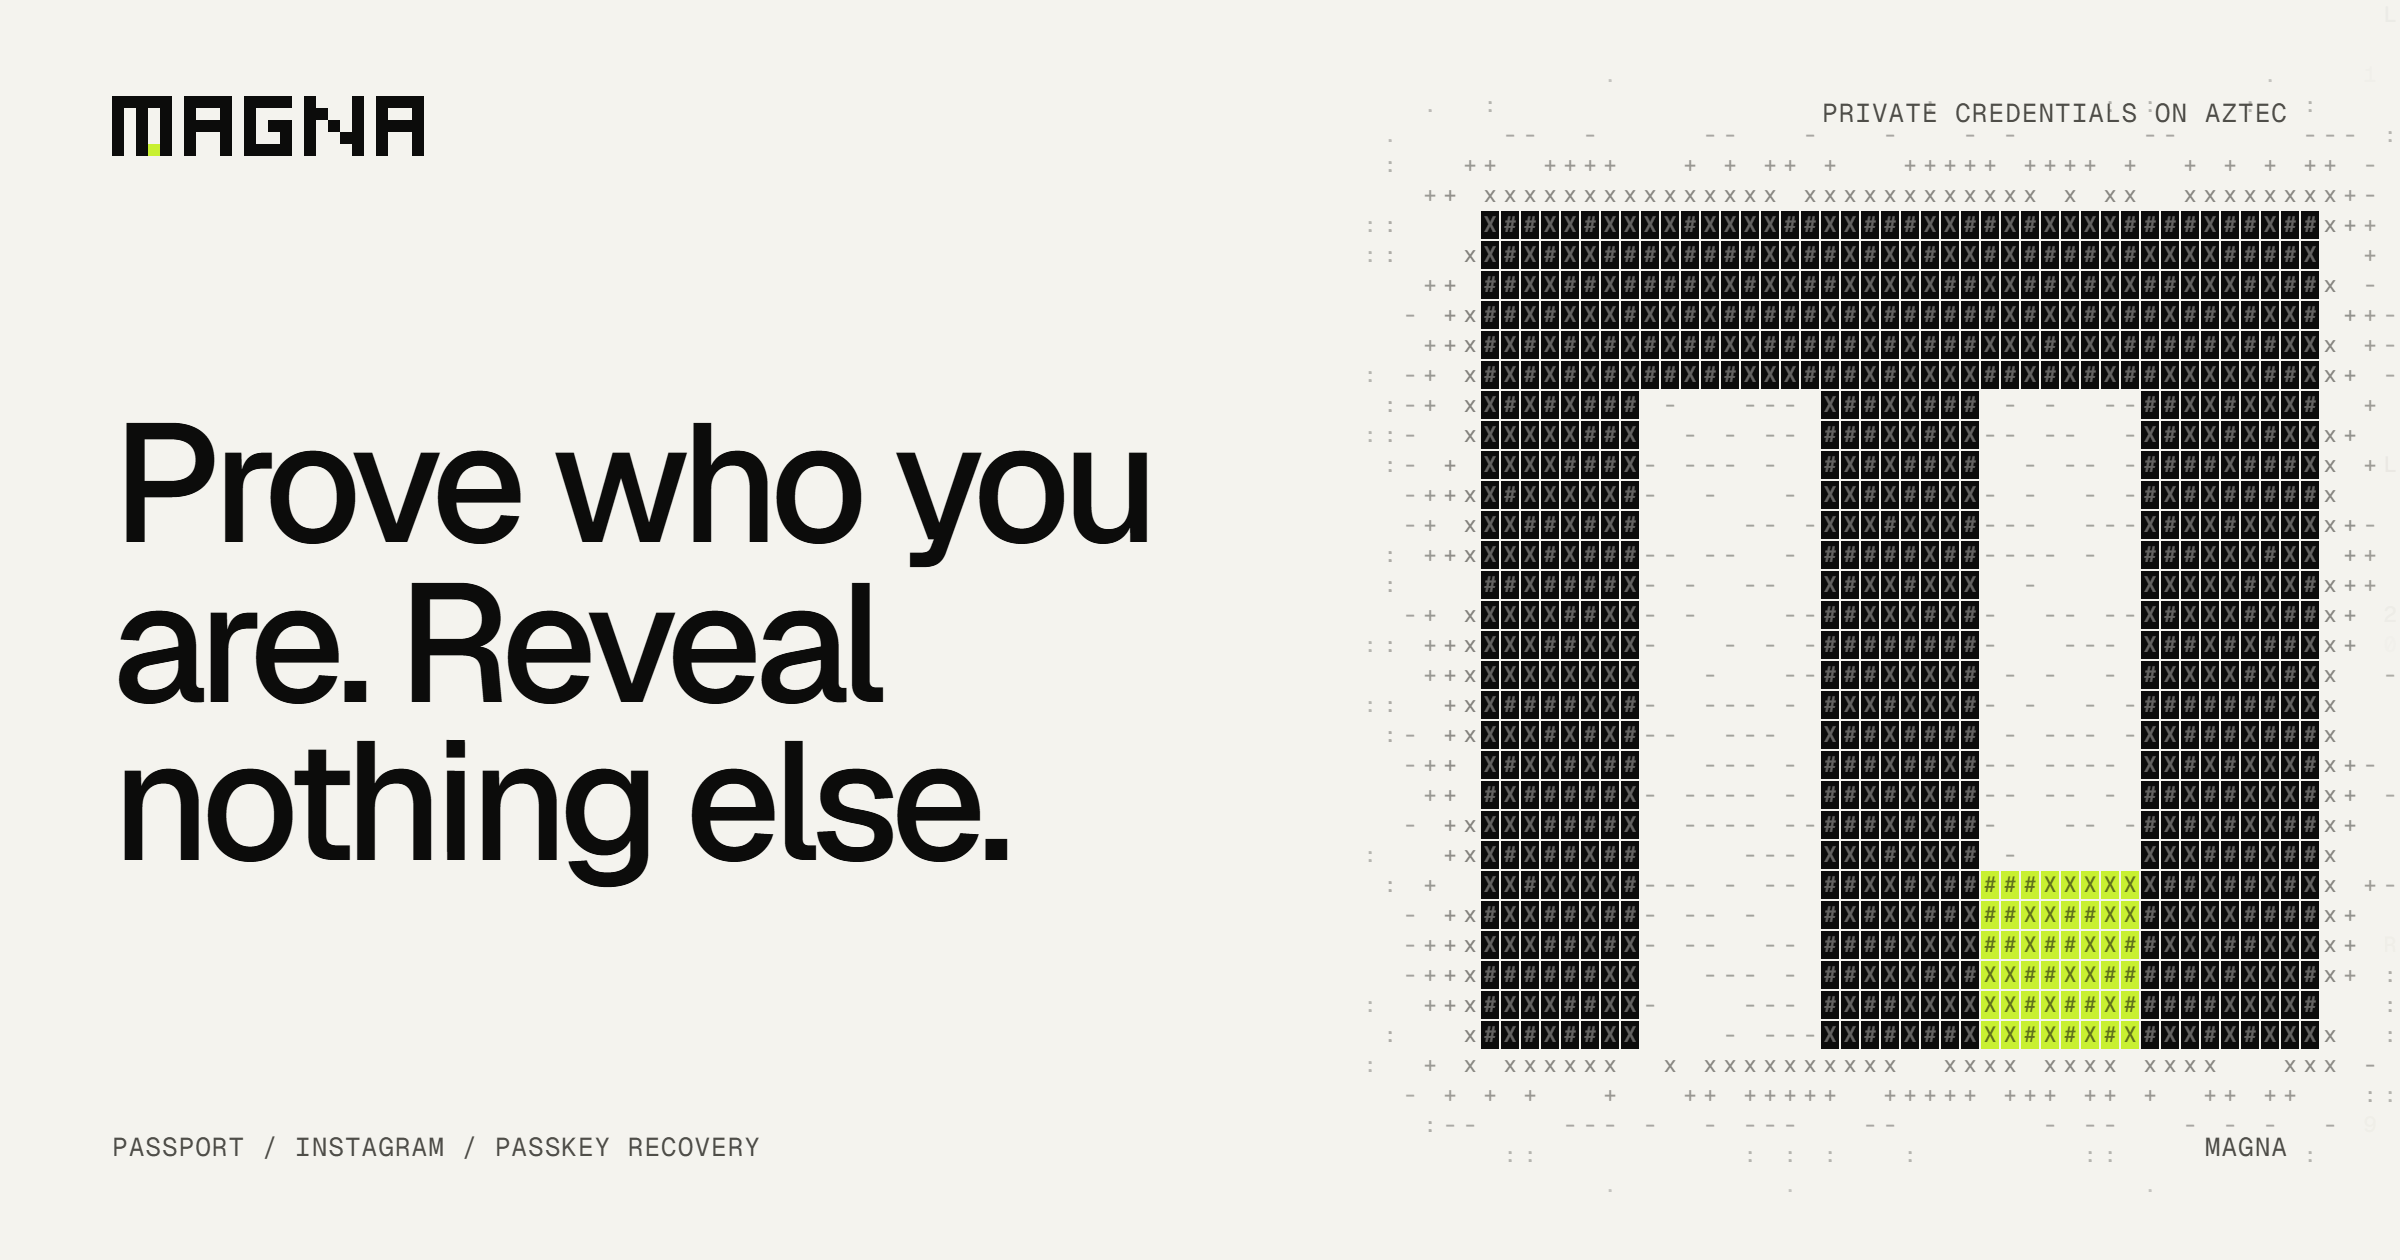
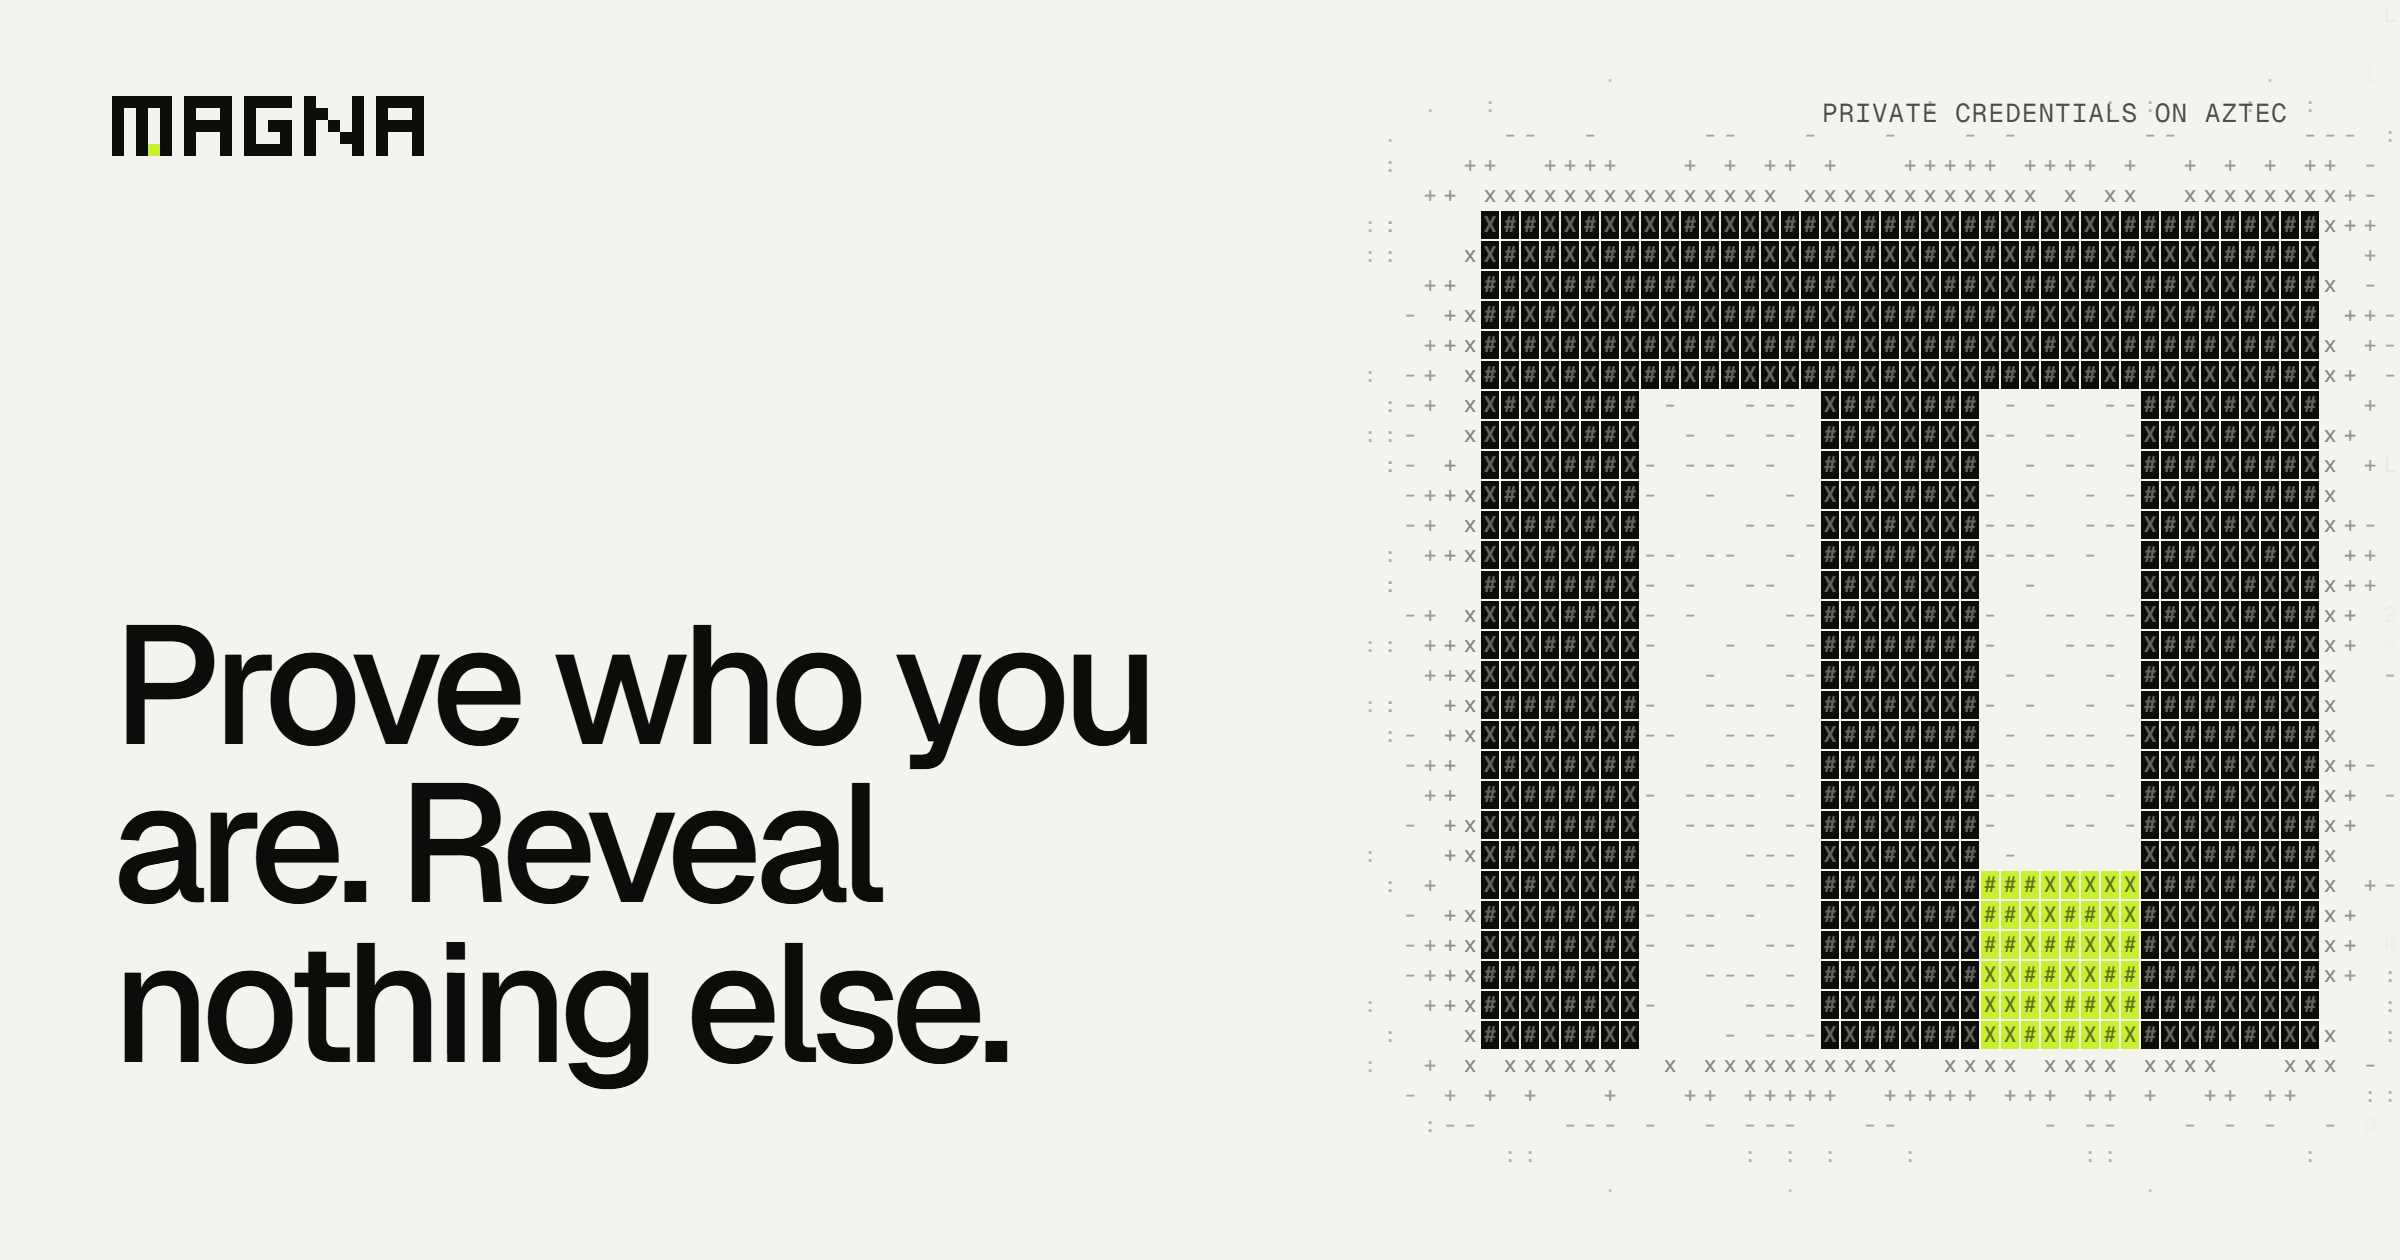
fix: drop slash meta labels from brand kit

diff --git a/brand/source/kit-type.html b/brand/source/kit-type.html
@@ -15,12 +15,12 @@
 <body>
   <div class="canvas sheet">
     <div class="sheet-head">
-      <span class="label">Brand kit / 03 Type</span>
+      <span class="label">03 Type</span>
       <img src="../logo/wordmark.svg" style="height:26px" alt="">
     </div>
     <div class="cols">
       <div class="col corners">
-        <span class="c tl">Geist / Display and text</span><span class="c tr">500 / 400</span>
+        <span class="c tl">Geist</span><span class="c tr">Display</span>
         <div class="display">Reveal<br>nothing<br>else.</div>
         <div>
           <div class="scale">
@@ -31,12 +31,12 @@
         </div>
       </div>
       <div class="col corners">
-        <span class="c tl">Geist Mono / System</span><span class="c tr">400</span>
+        <span class="c tl">Geist Mono</span><span class="c tr">400</span>
         <div class="mono-big">0x2f9c..e41a<br>BLOCK 18,204<br>AGE &gt;= 18<br>NAT TUR<br>NULLIFIER 0x77..01<br>FEE 0.0042 FJ</div>
         <p class="spec">Labels in caps at 12 to 13 px, tracking +4%.<br>Addresses, hashes, block numbers and every value a machine produced. Tabular figures.</p>
       </div>
       <div class="col corners">
-        <span class="c tl">Geist Pixel / Signal</span><span class="c tr">Square</span>
+        <span class="c tl">Geist Pixel</span><span class="c tr">Square</span>
         <div class="pixel-big">01<br>YES</div>
         <p class="spec">Step numbers, large counters and verified answers only. Built from the same square cell as the mark. Never for sentences.</p>
       </div>

diff --git a/brand/source/kit-system.html b/brand/source/kit-system.html
@@ -25,12 +25,12 @@
 <body>
   <div class="canvas sheet">
     <div class="sheet-head">
-      <span class="label">Brand kit / 04 System</span>
+      <span class="label">04 System</span>
       <img src="../logo/wordmark.svg" style="height:26px" alt="">
     </div>
     <div class="grid">
       <div class="field corners" id="field">
-        <span class="c tl">Seal field</span><span class="c tr">ASCII / canvas</span>
+        <span class="c tl">Seal field</span><span class="c tr">Canvas</span>
         <span class="c bl">Document data in</span><span class="c br">One seal out</span>
       </div>
       <div class="panel corners">
@@ -50,7 +50,7 @@
       <div class="panel corners">
         <span class="c tl">Motion</span><span class="c tr">GSAP + Lenis</span>
         <div class="motion">
-          <div><span>Ease</span><b>expo.out / cubic-bezier(.16,1,.3,1)</b></div>
+          <div><span>Ease</span><b>expo.out</b></div>
           <div><span>Scroll</span><b>Lenis lerp 0.09, ScrollTrigger scrub</b></div>
           <div><span>Reveal</span><b>mask lines, 0.9 s, 0.06 s stagger</b></div>
           <div><span>Proof</span><b>the field resolves, never fades in</b></div>

diff --git a/brand/source/og.html b/brand/source/og.html
@@ -3,6 +3,7 @@
 <html><head><meta charset="utf-8"><link rel="stylesheet" href="base.css">
 <style>
   .canvas { width: 1200px; height: 630px; padding: 48px 56px; display: flex; flex-direction: column; justify-content: space-between; }
+  h1 { margin-bottom: 40px; }
   #field { position: absolute; inset: 0; }
   .top, .bottom { position: relative; z-index: 2; display: flex; justify-content: space-between; align-items: flex-start; }
   h1 { position: relative; z-index: 2; font-size: 84px; font-weight: 500; letter-spacing: -0.05em; line-height: 0.95; max-width: 640px; }
@@ -12,7 +13,6 @@
     <div id="field"></div>
     <div class="top"><img src="../logo/wordmark.svg" style="height:30px" alt=""><span class="label">Private credentials on Aztec</span></div>
     <h1>Prove who you are. Reveal nothing else.</h1>
-    <div class="bottom"><span class="label">Passport / Instagram / Passkey recovery</span><span class="label">magna</span></div>
   </div>
   <script type="module">
     import { ready } from "./ready.js";

diff --git a/brand/source/kit-colour.html b/brand/source/kit-colour.html
@@ -15,7 +15,7 @@
 <body>
   <div class="canvas sheet">
     <div class="sheet-head">
-      <span class="label">Brand kit / 02 Colour</span>
+      <span class="label">02 Colour</span>
       <img src="../logo/wordmark.svg" style="height:26px" alt="">
     </div>
     <div class="h-sheet">Paper and ink. Signal only where a proof answers.</div>

diff --git a/brand/source/kit-logo.html b/brand/source/kit-logo.html
@@ -13,7 +13,7 @@
 <body>
   <div class="canvas sheet">
     <div class="sheet-head">
-      <span class="label">Brand kit / 01 Logo</span>
+      <span class="label">01 Logo</span>
       <img src="../logo/wordmark.svg" style="height:26px" alt="">
     </div>
     <div class="h-sheet">A charter in five cells. One is lit.</div>
